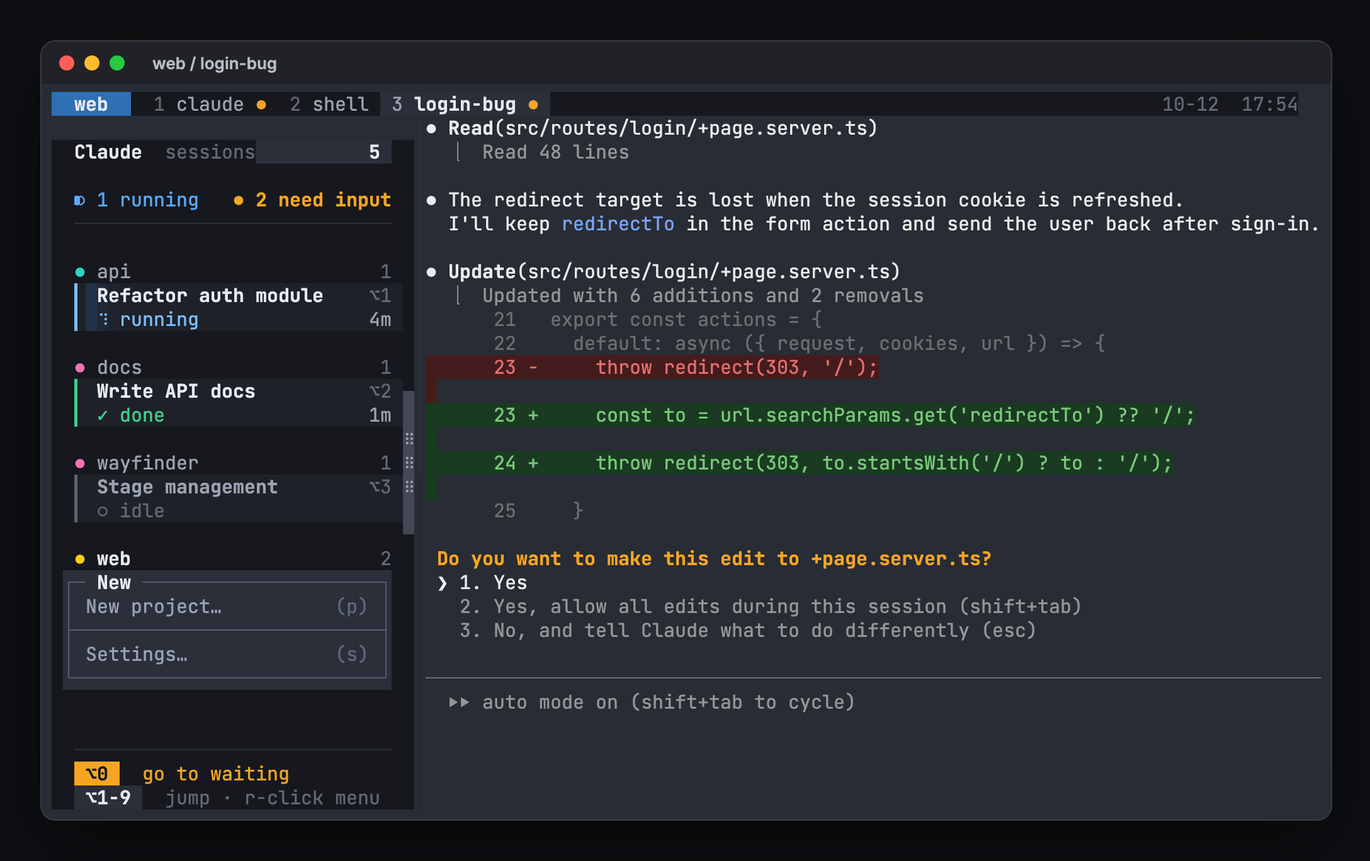
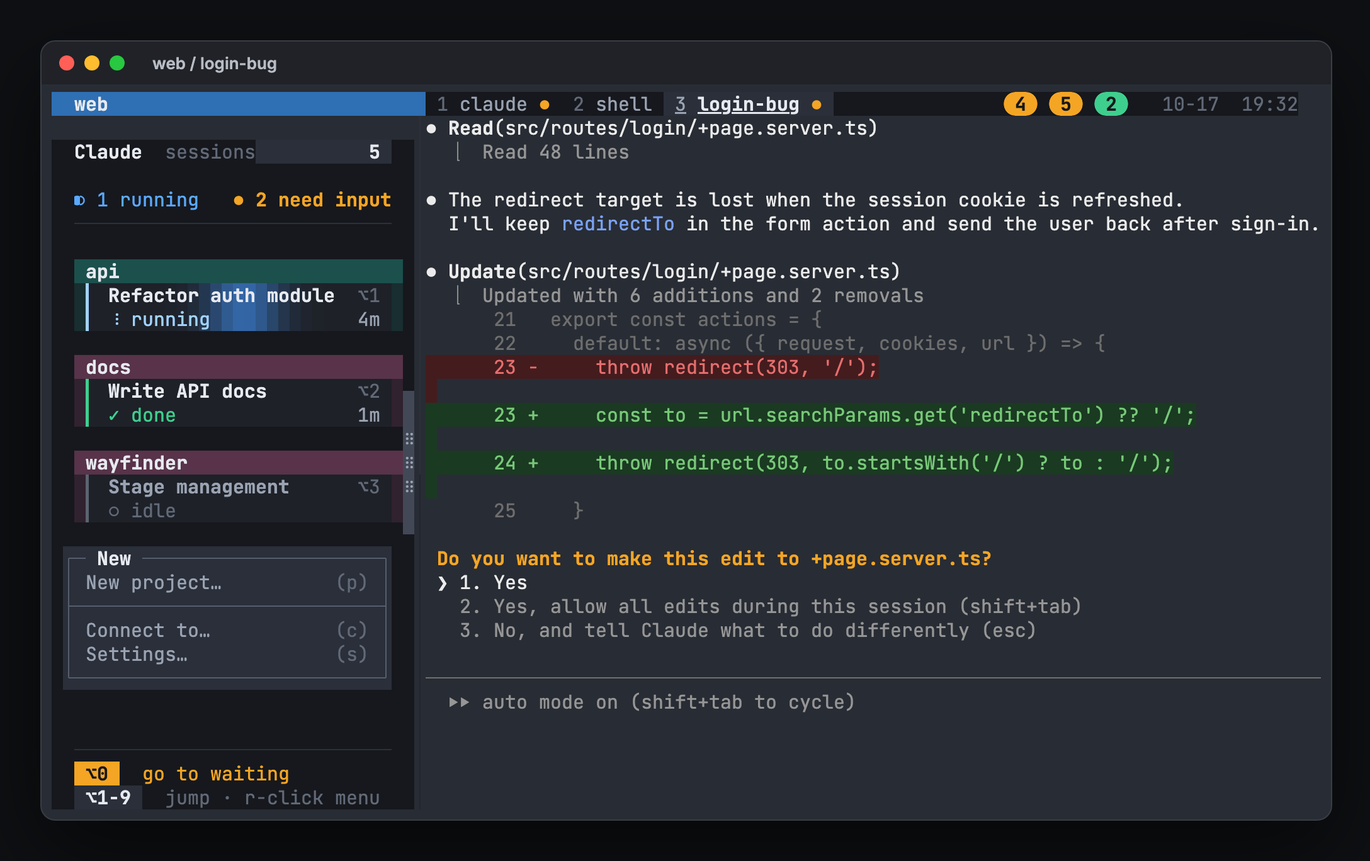
Docs: project boxes, scrolling and the selected card in README, guide and screenshots
The guide's sidebar mockups are drawn as project boxes, the selected card
has white side lines instead of ▶, and the keys list the mouse wheel.
Screenshots are rebuilt; ansi2html draws the round badge ends, and the
capture waits for the blinking pickup board to be on.

Claude-Session: https://claude.ai/code/session_01DeGU8b5o6dBWL7LV6J71n7

diff --git a/docs/guide.html b/docs/guide.html
@@ -248,11 +248,12 @@ ul { margin: 0; padding-left: 1.2em; display: grid; gap: 4px; max-width: 65ch; }
 .side2 .hd .n { margin-left: auto; background: #2a2f3a; color: #e6e9ef; padding: 0 7px; border-radius: 3px; }
 .side2 .sum { padding: 8px 12px 8px; display: flex; gap: 12px; border-bottom: 1px solid #2c3039; margin: 0 12px; padding-inline: 0; }
 .side2 .sum .r { color: #5aa9ff; } .side2 .sum .w { color: #f5a524; font-weight: 700; }
-.side2 .pj { display: flex; align-items: center; gap: 6px; padding: 12px 12px 4px; color: #9aa3b2; }
-.side2 .pj i { width: 7px; height: 7px; border-radius: 50%; display: inline-block; }
-.side2 .pj.cur { color: #e6e9ef; font-weight: 700; }
-.side2 .pj span { margin-left: auto; color: #626a78; font-weight: 400; }
-.side2 .cd { margin: 0 8px 6px 12px; display: grid; grid-template-columns: 1fr auto; column-gap: 6px; padding: 3px 8px; background: #1e2128; border-left: 2px solid #5c6370; color: #e6e9ef; }
+.side2 .bx { background: color-mix(in srgb, var(--h) 12%, #16181d); margin: 10px 12px 0; padding-bottom: 5px; }
+.side2 .bx.cur { background: color-mix(in srgb, var(--h) 20%, #16181d); }
+.side2 .pj { display: flex; align-items: center; padding: 1px 8px; margin-bottom: 5px; color: #e6e9ef; font-weight: 700; background: color-mix(in srgb, var(--h) 30%, #16181d); }
+.side2 .bx.cur .pj { background: color-mix(in srgb, var(--h) 45%, #16181d); }
+.side2 .pj span { margin-left: auto; color: color-mix(in srgb, var(--h) 40%, #e6e9ef); font-weight: 400; }
+.side2 .cd { margin: 0 8px 5px; display: grid; grid-template-columns: 1fr auto; column-gap: 6px; padding: 3px 8px; background: #1e2128; border-left: 2px solid #5c6370; color: #e6e9ef; }
 .side2 .cd .t { font-weight: 700; overflow: hidden; text-overflow: ellipsis; white-space: nowrap; }
 .side2 .cd b { color: #626a78; font-weight: 400; }
 .side2 .cd .a { color: #9aa3b2; }
@@ -260,7 +261,7 @@ ul { margin: 0; padding-left: 1.2em; display: grid; gap: 4px; max-width: 65ch; }
 .side2 .cd.done { border-left-color: #3ecf8e; } .side2 .cd.done .s { color: #3ecf8e; }
 .side2 .cd.idle .s { color: #626a78; } .side2 .cd.idle .t { color: #9aa3b2; }
 .side2 .cd.wait { background: #342812; border-left-color: #f5a524; } .side2 .cd.wait .s { color: #f5a524; font-weight: 700; } .side2 .cd.wait .a { color: #f5a524; }
-.side2 .cd.sel { background: #2a2f3a; border-left-width: 4px; } .side2 .cd.sel b { color: #e6e9ef; }
+.side2 .cd.sel { background: #3a4152; border-left-width: 4px; box-shadow: -4px 0 0 #e1e6f0, 4px 0 0 #e1e6f0; } .side2 .cd.sel b { color: #e6e9ef; }
 .side2 .cd.run { position: relative; overflow: hidden; animation: pulse 1.6s ease-in-out infinite; }
 .side2 .cd.run::after { content: ""; position: absolute; top: 0; bottom: 0; left: -40%; width: 40%; background: radial-gradient(ellipse at center, rgba(52,104,168,.75), transparent 70%); animation: sweep 1.8s linear infinite; pointer-events: none; }
 .side2 .cd.wait { animation: blink 2.2s ease-in-out infinite; }
@@ -349,28 +350,36 @@ ul { margin: 0; padding-left: 1.2em; display: grid; gap: 4px; max-width: 65ch; }
 
     <div class="st"><div>
       <h3>모든 작업 상태 보기와 바로 이동</h3>
-      <p>화면 왼쪽의 <b>사이드바</b>가 작업 상태판입니다. 어느 프로젝트를 보고 있든 모든 프로젝트의 Claude가 프로젝트별로 묶여 작업 이름과 함께 카드로 항상 표시됩니다. 카드 왼쪽 선의 색이 상태이고, 입력이 필요한 작업은 카드 전체가 호박색입니다. 지금 보고 있는 작업은 <b>밝은 카드와 ▶</b>로 표시됩니다.</p>
+      <p>화면 왼쪽의 <b>사이드바</b>가 작업 상태판입니다. 어느 프로젝트를 보고 있든 모든 프로젝트의 Claude가 프로젝트별로 묶여 작업 이름과 함께 카드로 항상 표시됩니다. 카드 왼쪽 선의 색이 상태이고, 입력이 필요한 작업은 카드 전체가 호박색입니다. 지금 보고 있는 작업은 <b>양옆에 흰 선이 있는 밝은 카드</b>로 표시됩니다.</p>
       <div class="screen" role="img" aria-label="tmux 화면 예시: 맨 위 창 목록, 왼쪽 사이드바, 오른쪽 작업 칸">
         <div class="tbar"><span class="sess">web</span><span class="win">1:claude <span class="st-wait">●</span></span><span class="win">2:shell</span><span class="win cur">3:login-bug <span class="st-wait">●</span></span><span class="grow"></span><span class="clock">10-06 11:20</span></div>
         <div class="side2">
           <div class="hd">Claude <em>세션</em><span class="n">5</span></div>
           <div class="sum"><span class="r">◐ 1 작업 중</span><span class="w">● 2 입력 필요</span></div>
-          <div class="pj"><i style="background:#a78bfa"></i>api<span>1</span></div>
-          <div class="cd run"><span class="t">인증 모듈 리팩터링</span><b>⌥1</b><span class="s">⠹ 작업 중</span><span class="a">4m</span></div>
-          <div class="pj"><i style="background:#2dd4bf"></i>docs<span>1</span></div>
-          <div class="cd done"><span class="t">API 문서 정리</span><b>⌥2</b><span class="s">✓ 완료</span><span class="a">1m</span></div>
-          <div class="pj cur"><i style="background:#f472b6"></i>web<span>2</span></div>
-          <div class="cd wait"><span class="t">결제 페이지 개선</span><b>⌥3</b><span class="s">● 입력 필요</span><span class="a">2m</span></div>
-          <div class="cd wait sel"><span class="t">로그인 리다이렉트 버그 수정</span><b>⌥4</b><span class="s">● 입력 필요</span><span class="a">40s</span></div>
-          <div class="pj"><i style="background:#fb923c"></i>wayfinder<span>1</span></div>
-          <div class="cd idle"><span class="t">단계 관리 기능</span><b>⌥5</b><span class="s">○ 대기</span><span class="a"></span></div>
+          <div class="bx" style="--h:#a78bfa">
+            <div class="pj">api</div>
+            <div class="cd run"><span class="t">인증 모듈 리팩터링</span><b>⌥1</b><span class="s">⠹ 작업 중</span><span class="a">4m</span></div>
+          </div>
+          <div class="bx" style="--h:#2dd4bf">
+            <div class="pj">docs</div>
+            <div class="cd done"><span class="t">API 문서 정리</span><b>⌥2</b><span class="s">✓ 완료</span><span class="a">1m</span></div>
+          </div>
+          <div class="bx cur" style="--h:#f472b6">
+            <div class="pj">web<span>2</span></div>
+            <div class="cd wait"><span class="t">결제 페이지 개선</span><b>⌥3</b><span class="s">● 입력 필요</span><span class="a">2m</span></div>
+            <div class="cd wait sel"><span class="t">로그인 리다이렉트 버그 수정</span><b>⌥4</b><span class="s">● 입력 필요</span><span class="a">40s</span></div>
+          </div>
+          <div class="bx" style="--h:#fb923c">
+            <div class="pj">wayfinder</div>
+            <div class="cd idle"><span class="t">단계 관리 기능</span><b>⌥5</b><span class="s">○ 대기</span><span class="a"></span></div>
+          </div>
           <div class="ft"><span class="w"><kbd>⌥0</kbd> 기다리는 작업으로</span><span><kbd>⌥1-9</kbd> 이동 · 우클릭 메뉴</span></div>
         </div>
         <div class="mainpane"><span class="p">~/project/web ❯</span> claude -n login-bug<br><br><span class="hl">Allow edit to src/routes/+page.svelte?</span><br>❯ 1. Yes<br>&nbsp;&nbsp;2. No</div>
       </div>
       <p><kbd>Option</kbd>+번호를 누르면 그 Claude로 바로 갑니다. 프로젝트가 달라도 한 번에 이동합니다. 사이드바의 타일을 클릭해도 됩니다.</p>
       <p><kbd>Option</kbd>+<kbd>0</kbd>은 가장 오래 기다린 Claude로 갑니다. 주황색 항목이 없으면 끝났는데 아직 안 본 초록색 항목으로 갑니다. 이 키만 반복해서 누르면 기다리는 작업을 차례로 처리할 수 있습니다.</p>
-      <p class="result">작업 중인 카드는 밝은 빛 띠가 계속 훑고 지나가고 스피너가 돕니다. 입력이 필요한 카드는 호박색으로 깜빡입니다. 맨 위 창 목록에서도 작업 중인 창 옆에 스피너가 돕니다. 번호는 프로젝트 이름순으로 매겨지고 작업이 바뀌어도 그대로라서 손에 익습니다. 타일 아랫줄에 상태와 경과 시간이 보여서 무엇을 먼저 볼지 정할 수 있습니다. 각 프로젝트는 프로젝트 색 머리 띠가 달린 상자로 묶입니다. 사이드바를 넓히면 상자가 2열, 3열로 늘어나고, 그래도 세로로 다 들어가지 않으면 카드 사이 빈 줄을 줄이고, 그다음엔 마우스 휠로 스크롤합니다. 사이드바가 거슬리면 <kbd>Ctrl</kbd>+<kbd>A</kbd> 다음 <kbd>b</kbd>로 숨기고 다시 보일 수 있습니다.</p>
+      <p class="result">작업 중인 카드는 밝은 빛 띠가 계속 훑고 지나가고 스피너가 돕니다. 입력이 필요한 카드는 호박색으로 깜빡입니다. 맨 위 창 목록에서도 작업 중인 창 옆에 스피너가 돕니다. 번호는 프로젝트 이름순으로 매겨지고 작업이 바뀌어도 그대로라서 손에 익습니다. 타일 아랫줄에 상태와 경과 시간이 보여서 무엇을 먼저 볼지 정할 수 있습니다. 각 프로젝트는 프로젝트 색 머리 띠가 달린 상자로 묶입니다. 사이드바를 넓히면 상자가 2열, 3열로 늘어나고, 그래도 세로로 다 들어가지 않으면 카드 사이 빈 줄을 줄이고, 그다음엔 마우스 휠로 스크롤합니다. 위나 아래에 더 있으면 구분선 끝에 ▲ ▼가 보이고, 스크롤 위치는 모든 창이 함께 써서 다른 작업으로 옮겨도 그대로입니다. 사이드바가 거슬리면 <kbd>Ctrl</kbd>+<kbd>A</kbd> 다음 <kbd>b</kbd>로 숨기고 다시 보일 수 있습니다.</p>
     </div></div>
 
     <div class="st"><div>
@@ -427,15 +436,23 @@ claude -c
         <div class="side2">
           <div class="hd">Claude <em>세션</em><span class="n">5</span></div>
           <div class="sum"><span class="r">◐ 1 작업 중</span><span class="w">● 2 입력 필요</span></div>
-          <div class="pj"><i style="background:#a78bfa"></i>api<span>1</span></div>
-          <div class="cd run"><span class="t">인증 모듈 리팩터링</span><b>⌥1</b><span class="s">⠹ 작업 중</span><span class="a">4m</span></div>
-          <div class="pj"><i style="background:#2dd4bf"></i>docs<span>1</span></div>
-          <div class="cd done"><span class="t">API 문서 정리</span><b>⌥2</b><span class="s">✓ 완료</span><span class="a">1m</span></div>
-          <div class="pj cur"><i style="background:#f472b6"></i>web<span>2</span></div>
-          <div class="cd wait"><span class="t">결제 페이지 개선</span><b>⌥3</b><span class="s">● 입력 필요</span><span class="a">2m</span></div>
-          <div class="cd wait sel"><span class="t">로그인 리다이렉트 버그 수정</span><b>⌥4</b><span class="s">● 입력 필요</span><span class="a">40s</span></div>
-          <div class="pj"><i style="background:#fb923c"></i>wayfinder<span>1</span></div>
-          <div class="cd idle"><span class="t">단계 관리 기능</span><b>⌥5</b><span class="s">○ 대기</span><span class="a"></span></div>
+          <div class="bx" style="--h:#a78bfa">
+            <div class="pj">api</div>
+            <div class="cd run"><span class="t">인증 모듈 리팩터링</span><b>⌥1</b><span class="s">⠹ 작업 중</span><span class="a">4m</span></div>
+          </div>
+          <div class="bx" style="--h:#2dd4bf">
+            <div class="pj">docs</div>
+            <div class="cd done"><span class="t">API 문서 정리</span><b>⌥2</b><span class="s">✓ 완료</span><span class="a">1m</span></div>
+          </div>
+          <div class="bx cur" style="--h:#f472b6">
+            <div class="pj">web<span>2</span></div>
+            <div class="cd wait"><span class="t">결제 페이지 개선</span><b>⌥3</b><span class="s">● 입력 필요</span><span class="a">2m</span></div>
+            <div class="cd wait sel"><span class="t">로그인 리다이렉트 버그 수정</span><b>⌥4</b><span class="s">● 입력 필요</span><span class="a">40s</span></div>
+          </div>
+          <div class="bx" style="--h:#fb923c">
+            <div class="pj">wayfinder</div>
+            <div class="cd idle"><span class="t">단계 관리 기능</span><b>⌥5</b><span class="s">○ 대기</span><span class="a"></span></div>
+          </div>
           <div class="ft"><span class="w"><kbd>⌥0</kbd> 기다리는 작업으로</span><span><kbd>⌥1-9</kbd> 이동 · 우클릭 메뉴</span></div>
         </div>
         <div class="mainpane"><span class="p">~/project/web ❯</span> claude -n login-bug<br><br><span class="hl">Allow edit to src/routes/+page.svelte?</span><br>❯ 1. Yes<br>&nbsp;&nbsp;2. No</div>
@@ -452,10 +469,10 @@ claude -c
   </div>
   <div class="anno">
     <div><b>Claude 세션 5</b><span>사이드바 맨 위. tmux 안에서 실행 중인 Claude 세션 수</span></div>
-    <div><b>● api  1</b><span>색 점이 붙은 줄이 프로젝트(세션) 이름과 그 안의 Claude 수. 지금 보는 프로젝트는 더 밝게 표시</span></div>
+    <div><b>프로젝트 상자</b><span>프로젝트(세션)마다 상자 하나. 프로젝트 색 머리 띠에 이름과 Claude 수(2개 이상일 때)가 있고, 그 아래에 Claude 카드가 들어갑니다. 지금 보는 프로젝트는 더 진하게 표시</span></div>
     <div><b>작업 이름</b><span>Claude가 정한 대화 제목이나 -n 이름. 대화가 진행되면 Claude가 제목을 바꿉니다</span></div>
-    <div><b>타일 앞 번호</b><span>Option+번호로 이동할 때 쓰는 번호</span></div>
-    <div><b>▶ 밝은 카드</b><span>지금 보고 있는 작업</span></div>
+    <div><b>⌥ 번호</b><span>카드 오른쪽 위. Option+번호로 이동할 때 쓰는 번호</span></div>
+    <div><b>양옆 흰 선</b><span>지금 보고 있는 작업</span></div>
     <div><b>맨 위 줄 web 1:claude …</b><span>지금 프로젝트 이름과 창 목록. 밝게 표시된 것이 현재 창</span></div>
   </div>
   <div class="scroll"><table>
@@ -465,7 +482,7 @@ claude -c
       <tr><td><span class="pill" style="background:#303030;color:#87d787;border-left:3px solid #5fd787">✓ 완료</span></td><td>응답을 끝냈고 아직 안 봄. 초록 선</td><td>결과 확인. 열어 보면 대기로 바뀜</td></tr>
       <tr><td><span class="pill" style="background:#303030;color:#87d7ff;border-left:3px solid #5fafff">◐ 작업 중</span></td><td>작업 중. 빛 띠가 훑고 지나가고 파란 선이 맥박처럼 밝아짐. 오른쪽 숫자는 작업 시간</td><td>기다리기</td></tr>
       <tr><td><span class="pill" style="background:#303030;color:#8a8a8a;border-left:3px solid #585858">○ 대기</span></td><td>다음 지시를 기다리는 상태. 결과는 이미 봄</td><td>새 지시를 줄 때 이동</td></tr>
-      <tr><td><span class="pill" style="background:#4e4e4e;color:#ff87ff">▶ 밝은 카드</span></td><td>지금 보고 있는 작업</td><td>없음</td></tr>
+      <tr><td><span class="pill" style="background:#3a4152;color:#e6e9ef;box-shadow:-3px 0 0 #e1e6f0,3px 0 0 #e1e6f0;margin-inline:3px">양옆 흰 선</span></td><td>지금 보고 있는 작업</td><td>없음</td></tr>
     </tbody>
   </table></div>
 
@@ -501,7 +518,8 @@ claude -c
       <div class="key"><span class="combo">메뉴 → 설정</span><span class="d">언어 (한국어 / English), 애니메이션 켜기 / 끄기, 알림 켜기 / 끄기, 사이드바 폭. 바꾸면 바로 적용되고 <code>~/.local/share/hivemux</code>에 저장되어 재시작 뒤에도 유지됨. 언어를 바꾸면 사이드바를 다시 띄움</span></div>
       <div class="key"><span class="combo">카드 / 프로젝트 이름 줄 끌기</span><span class="d">작업 순서 / 프로젝트 순서 바꾸기. 놓을 자리가 파랗게 표시되고, <kbd>⌥</kbd>+숫자 번호와 맨 위 창 목록도 같은 순서를 따름. 작업은 같은 프로젝트 안에서만 옮겨짐</span></div>
       <div class="key"><span class="combo"><kbd>Ctrl</kbd>+<kbd>A</kbd> → <kbd>Shift</kbd>+<kbd>↑</kbd> / <kbd>↓</kbd></span><span class="d">지금 작업을 한 칸 위 / 아래로. 프로젝트 끝이면 프로젝트 전체가 움직임</span></div>
-      <div class="key"><span class="combo">핸들 막대 끌기</span><span class="d">핸들 막대나 경계선을 끌어 사이드바 폭 바꾸기. 모든 창에 맞추고 저장</span></div>
+      <div class="key"><span class="combo">핸들 막대 끌기</span><span class="d">핸들 막대나 경계선을 끌어 사이드바 폭 바꾸기. 모든 창에 맞추고 저장. 넓히면 프로젝트 상자가 2열, 3열로 늘어남</span></div>
+      <div class="key"><span class="combo">사이드바 위에서 마우스 휠</span><span class="d">목록이 다 들어가지 않을 때 스크롤. 위치는 모든 창이 함께 씀</span></div>
       <div class="key"><span class="combo"><kbd>Ctrl</kbd>+<kbd>A</kbd> → <kbd>b</kbd></span><span class="d">사이드바 모두 숨기기 / 다시 보이기</span></div>
       <div class="key"><span class="combo"><kbd>Ctrl</kbd>+<kbd>A</kbd> → <kbd>Space</kbd></span><span class="d">Option+0과 같음</span></div>
     </div>

diff --git a/docs/guide.en.html b/docs/guide.en.html
@@ -248,11 +248,12 @@ ul { margin: 0; padding-left: 1.2em; display: grid; gap: 4px; max-width: 65ch; }
 .side2 .hd .n { margin-left: auto; background: #2a2f3a; color: #e6e9ef; padding: 0 7px; border-radius: 3px; }
 .side2 .sum { padding: 8px 12px 8px; display: flex; gap: 12px; border-bottom: 1px solid #2c3039; margin: 0 12px; padding-inline: 0; }
 .side2 .sum .r { color: #5aa9ff; } .side2 .sum .w { color: #f5a524; font-weight: 700; }
-.side2 .pj { display: flex; align-items: center; gap: 6px; padding: 12px 12px 4px; color: #9aa3b2; }
-.side2 .pj i { width: 7px; height: 7px; border-radius: 50%; display: inline-block; }
-.side2 .pj.cur { color: #e6e9ef; font-weight: 700; }
-.side2 .pj span { margin-left: auto; color: #626a78; font-weight: 400; }
-.side2 .cd { margin: 0 8px 6px 12px; display: grid; grid-template-columns: 1fr auto; column-gap: 6px; padding: 3px 8px; background: #1e2128; border-left: 2px solid #5c6370; color: #e6e9ef; }
+.side2 .bx { background: color-mix(in srgb, var(--h) 12%, #16181d); margin: 10px 12px 0; padding-bottom: 5px; }
+.side2 .bx.cur { background: color-mix(in srgb, var(--h) 20%, #16181d); }
+.side2 .pj { display: flex; align-items: center; padding: 1px 8px; margin-bottom: 5px; color: #e6e9ef; font-weight: 700; background: color-mix(in srgb, var(--h) 30%, #16181d); }
+.side2 .bx.cur .pj { background: color-mix(in srgb, var(--h) 45%, #16181d); }
+.side2 .pj span { margin-left: auto; color: color-mix(in srgb, var(--h) 40%, #e6e9ef); font-weight: 400; }
+.side2 .cd { margin: 0 8px 5px; display: grid; grid-template-columns: 1fr auto; column-gap: 6px; padding: 3px 8px; background: #1e2128; border-left: 2px solid #5c6370; color: #e6e9ef; }
 .side2 .cd .t { font-weight: 700; overflow: hidden; text-overflow: ellipsis; white-space: nowrap; }
 .side2 .cd b { color: #626a78; font-weight: 400; }
 .side2 .cd .a { color: #9aa3b2; }
@@ -260,7 +261,7 @@ ul { margin: 0; padding-left: 1.2em; display: grid; gap: 4px; max-width: 65ch; }
 .side2 .cd.done { border-left-color: #3ecf8e; } .side2 .cd.done .s { color: #3ecf8e; }
 .side2 .cd.idle .s { color: #626a78; } .side2 .cd.idle .t { color: #9aa3b2; }
 .side2 .cd.wait { background: #342812; border-left-color: #f5a524; } .side2 .cd.wait .s { color: #f5a524; font-weight: 700; } .side2 .cd.wait .a { color: #f5a524; }
-.side2 .cd.sel { background: #2a2f3a; border-left-width: 4px; } .side2 .cd.sel b { color: #e6e9ef; }
+.side2 .cd.sel { background: #3a4152; border-left-width: 4px; box-shadow: -4px 0 0 #e1e6f0, 4px 0 0 #e1e6f0; } .side2 .cd.sel b { color: #e6e9ef; }
 .side2 .cd.run { position: relative; overflow: hidden; animation: pulse 1.6s ease-in-out infinite; }
 .side2 .cd.run::after { content: ""; position: absolute; top: 0; bottom: 0; left: -40%; width: 40%; background: radial-gradient(ellipse at center, rgba(52,104,168,.75), transparent 70%); animation: sweep 1.8s linear infinite; pointer-events: none; }
 .side2 .cd.wait { animation: blink 2.2s ease-in-out infinite; }
@@ -349,28 +350,36 @@ ul { margin: 0; padding-left: 1.2em; display: grid; gap: 4px; max-width: 65ch; }
 
     <div class="st"><div>
       <h3>See every task and jump to it</h3>
-      <p>The <b>sidebar</b> on the left is the board. Whichever project you are in, it always shows every Claude in every project as cards, grouped by project, with the task name. The color of the card's left bar is its state; a card that needs your input turns amber. The task you are looking at is the <b>lighter card with ▶</b>.</p>
+      <p>The <b>sidebar</b> on the left is the board. Whichever project you are in, it always shows every Claude in every project as cards, grouped by project, with the task name. The color of the card's left bar is its state; a card that needs your input turns amber. The task you are looking at is the <b>lighter card with a white line on each side</b>.</p>
       <div class="screen" role="img" aria-label="Example tmux screen: window list on top, sidebar on the left, work pane on the right">
         <div class="tbar"><span class="sess">web</span><span class="win">1:claude <span class="st-wait">●</span></span><span class="win">2:shell</span><span class="win cur">3:login-bug <span class="st-wait">●</span></span><span class="grow"></span><span class="clock">10-06 11:20</span></div>
         <div class="side2">
           <div class="hd">Claude <em>sessions</em><span class="n">5</span></div>
           <div class="sum"><span class="r">◐ 1 running</span><span class="w">● 2 need input</span></div>
-          <div class="pj"><i style="background:#a78bfa"></i>api<span>1</span></div>
-          <div class="cd run"><span class="t">Refactor auth module</span><b>⌥1</b><span class="s">⠹ running</span><span class="a">4m</span></div>
-          <div class="pj"><i style="background:#2dd4bf"></i>docs<span>1</span></div>
-          <div class="cd done"><span class="t">Write API docs</span><b>⌥2</b><span class="s">✓ done</span><span class="a">1m</span></div>
-          <div class="pj cur"><i style="background:#f472b6"></i>web<span>2</span></div>
-          <div class="cd wait"><span class="t">Improve checkout page</span><b>⌥3</b><span class="s">● needs input</span><span class="a">2m</span></div>
-          <div class="cd wait sel"><span class="t">Fix login redirect bug</span><b>⌥4</b><span class="s">● needs input</span><span class="a">40s</span></div>
-          <div class="pj"><i style="background:#fb923c"></i>wayfinder<span>1</span></div>
-          <div class="cd idle"><span class="t">Stage management</span><b>⌥5</b><span class="s">○ idle</span><span class="a"></span></div>
+          <div class="bx" style="--h:#a78bfa">
+            <div class="pj">api</div>
+            <div class="cd run"><span class="t">Refactor auth module</span><b>⌥1</b><span class="s">⠹ running</span><span class="a">4m</span></div>
+          </div>
+          <div class="bx" style="--h:#2dd4bf">
+            <div class="pj">docs</div>
+            <div class="cd done"><span class="t">Write API docs</span><b>⌥2</b><span class="s">✓ done</span><span class="a">1m</span></div>
+          </div>
+          <div class="bx cur" style="--h:#f472b6">
+            <div class="pj">web<span>2</span></div>
+            <div class="cd wait"><span class="t">Improve checkout page</span><b>⌥3</b><span class="s">● needs input</span><span class="a">2m</span></div>
+            <div class="cd wait sel"><span class="t">Fix login redirect bug</span><b>⌥4</b><span class="s">● needs input</span><span class="a">40s</span></div>
+          </div>
+          <div class="bx" style="--h:#fb923c">
+            <div class="pj">wayfinder</div>
+            <div class="cd idle"><span class="t">Stage management</span><b>⌥5</b><span class="s">○ idle</span><span class="a"></span></div>
+          </div>
           <div class="ft"><span class="w"><kbd>⌥0</kbd> go to waiting</span><span><kbd>⌥1-9</kbd> jump · r-click rename</span></div>
         </div>
         <div class="mainpane"><span class="p">~/project/web ❯</span> claude -n login-bug<br><br><span class="hl">Allow edit to src/routes/+page.svelte?</span><br>❯ 1. Yes<br>&nbsp;&nbsp;2. No</div>
       </div>
       <p><kbd>Option</kbd>+number jumps straight to that Claude, even in another project. Clicking a card does the same.</p>
       <p><kbd>Option</kbd>+<kbd>0</kbd> jumps to the Claude that has waited longest. With nothing amber, it goes to a finished green card you have not seen yet. Press it repeatedly to work through everything that is waiting.</p>
-      <p class="result">Running cards have a light band sweeping across and a spinner. Cards that need input pulse amber. The top window list shows a spinner next to running windows too. Numbers follow project names and stay put when states change, so they are easy to remember. The second line of each card shows the state and elapsed time, so you can decide what to look at first. Each project is a box with a header band in the project's color. Widen the sidebar and the boxes go into 2 or 3 columns; when they still do not fit, the blank rows between cards go first, then the list scrolls with the mouse wheel. To hide the sidebar, press <kbd>Ctrl</kbd>+<kbd>A</kbd> then <kbd>b</kbd>; press again to bring it back.</p>
+      <p class="result">Running cards have a light band sweeping across and a spinner. Cards that need input pulse amber. The top window list shows a spinner next to running windows too. Numbers follow project names and stay put when states change, so they are easy to remember. The second line of each card shows the state and elapsed time, so you can decide what to look at first. Each project is a box with a header band in the project's color. Widen the sidebar and the boxes go into 2 or 3 columns; when they still do not fit, the blank rows between cards go first, then the list scrolls with the mouse wheel. ▲ ▼ at the end of a rule show more above or below, and every window shares the scroll position, so going to another task keeps the list where it was. To hide the sidebar, press <kbd>Ctrl</kbd>+<kbd>A</kbd> then <kbd>b</kbd>; press again to bring it back.</p>
     </div></div>
 
     <div class="st"><div>
@@ -426,15 +435,23 @@ claude -c
         <div class="side2">
           <div class="hd">Claude <em>sessions</em><span class="n">5</span></div>
           <div class="sum"><span class="r">◐ 1 running</span><span class="w">● 2 need input</span></div>
-          <div class="pj"><i style="background:#a78bfa"></i>api<span>1</span></div>
-          <div class="cd run"><span class="t">Refactor auth module</span><b>⌥1</b><span class="s">⠹ running</span><span class="a">4m</span></div>
-          <div class="pj"><i style="background:#2dd4bf"></i>docs<span>1</span></div>
-          <div class="cd done"><span class="t">Write API docs</span><b>⌥2</b><span class="s">✓ done</span><span class="a">1m</span></div>
-          <div class="pj cur"><i style="background:#f472b6"></i>web<span>2</span></div>
-          <div class="cd wait"><span class="t">Improve checkout page</span><b>⌥3</b><span class="s">● needs input</span><span class="a">2m</span></div>
-          <div class="cd wait sel"><span class="t">Fix login redirect bug</span><b>⌥4</b><span class="s">● needs input</span><span class="a">40s</span></div>
-          <div class="pj"><i style="background:#fb923c"></i>wayfinder<span>1</span></div>
-          <div class="cd idle"><span class="t">Stage management</span><b>⌥5</b><span class="s">○ idle</span><span class="a"></span></div>
+          <div class="bx" style="--h:#a78bfa">
+            <div class="pj">api</div>
+            <div class="cd run"><span class="t">Refactor auth module</span><b>⌥1</b><span class="s">⠹ running</span><span class="a">4m</span></div>
+          </div>
+          <div class="bx" style="--h:#2dd4bf">
+            <div class="pj">docs</div>
+            <div class="cd done"><span class="t">Write API docs</span><b>⌥2</b><span class="s">✓ done</span><span class="a">1m</span></div>
+          </div>
+          <div class="bx cur" style="--h:#f472b6">
+            <div class="pj">web<span>2</span></div>
+            <div class="cd wait"><span class="t">Improve checkout page</span><b>⌥3</b><span class="s">● needs input</span><span class="a">2m</span></div>
+            <div class="cd wait sel"><span class="t">Fix login redirect bug</span><b>⌥4</b><span class="s">● needs input</span><span class="a">40s</span></div>
+          </div>
+          <div class="bx" style="--h:#fb923c">
+            <div class="pj">wayfinder</div>
+            <div class="cd idle"><span class="t">Stage management</span><b>⌥5</b><span class="s">○ idle</span><span class="a"></span></div>
+          </div>
           <div class="ft"><span class="w"><kbd>⌥0</kbd> go to waiting</span><span><kbd>⌥1-9</kbd> jump · r-click rename</span></div>
         </div>
         <div class="mainpane"><span class="p">~/project/web ❯</span> claude -n login-bug<br><br><span class="hl">Allow edit to src/routes/+page.svelte?</span><br>❯ 1. Yes<br>&nbsp;&nbsp;2. No</div>
@@ -442,10 +459,10 @@ claude -c
   </div>
   <div class="anno">
     <div><b>Claude sessions 5</b><span>Top of the sidebar: number of Claude sessions running inside tmux</span></div>
-    <div><b>● api  1</b><span>Project (tmux session) name with its color dot and the number of Claudes in it. The project you are in is brighter</span></div>
+    <div><b>Project box</b><span>One box per project (tmux session): a header band in the project's color with its name and the number of Claudes (when more than one), its Claude cards below. The project you are in is stronger</span></div>
     <div><b>Task name</b><span>Claude's conversation title or the -n name. Claude may retitle it as the conversation goes</span></div>
-    <div><b>⌥ number</b><span>The number for Option+number</span></div>
-    <div><b>▶ lighter card</b><span>The task you are looking at</span></div>
+    <div><b>⌥ number</b><span>Top right of the card: the number for Option+number</span></div>
+    <div><b>White side lines</b><span>The task you are looking at</span></div>
     <div><b>Top line: web 1:claude …</b><span>Current project and its windows. The highlighted one is the current window</span></div>
   </div>
   <div class="scroll"><table>
@@ -455,7 +472,7 @@ claude -c
       <tr><td><span class="pill" style="background:#303030;color:#87d787;border-left:3px solid #5fd787">✓ done</span></td><td>Finished, not seen yet. Green bar</td><td>Check the result; it turns idle once you look</td></tr>
       <tr><td><span class="pill" style="background:#303030;color:#87d7ff;border-left:3px solid #5fafff">◐ running</span></td><td>Working. A light band sweeps across and the blue bar pulses; the number is how long it has run</td><td>Let it work</td></tr>
       <tr><td><span class="pill" style="background:#303030;color:#8a8a8a;border-left:3px solid #585858">○ idle</span></td><td>Waiting for your next request; you have seen the result</td><td>Go there to give a new task</td></tr>
-      <tr><td><span class="pill" style="background:#4e4e4e;color:#ff87ff">▶ lighter card</span></td><td>The task you are looking at</td><td>Nothing</td></tr>
+      <tr><td><span class="pill" style="background:#3a4152;color:#e6e9ef;box-shadow:-3px 0 0 #e1e6f0,3px 0 0 #e1e6f0;margin-inline:3px">White side lines</span></td><td>The task you are looking at</td><td>Nothing</td></tr>
     </tbody>
   </table></div>
 
@@ -491,7 +508,8 @@ claude -c
       <div class="key"><span class="combo">Menu → Settings</span><span class="d">Language (한국어 / English), animation on / off, notifications on / off, sidebar width. Applied at once and saved in <code>~/.local/share/hivemux</code>, so they survive restarts. Changing the language restarts the sidebars</span></div>
       <div class="key"><span class="combo">Drag a card / project header</span><span class="d">Reorder tasks / projects. The drop target turns blue; <kbd>⌥</kbd>+number and the top window list follow the same order. A task moves only within its project</span></div>
       <div class="key"><span class="combo"><kbd>Ctrl</kbd>+<kbd>A</kbd> → <kbd>Shift</kbd>+<kbd>↑</kbd> / <kbd>↓</kbd></span><span class="d">Move the current task up / down one step; at a project's edge the whole project moves</span></div>
-      <div class="key"><span class="combo">Drag the grip</span><span class="d">Drag the grip bar or the border to resize the sidebar; applied to all windows and saved</span></div>
+      <div class="key"><span class="combo">Drag the grip</span><span class="d">Drag the grip bar or the border to resize the sidebar; applied to all windows and saved. Wider, the project boxes go into 2 or 3 columns</span></div>
+      <div class="key"><span class="combo">Mouse wheel on the sidebar</span><span class="d">Scroll when the list does not fit; every window shares the position</span></div>
       <div class="key"><span class="combo"><kbd>Ctrl</kbd>+<kbd>A</kbd> → <kbd>b</kbd></span><span class="d">Hide / show all sidebars</span></div>
       <div class="key"><span class="combo"><kbd>Ctrl</kbd>+<kbd>A</kbd> → <kbd>Space</kbd></span><span class="d">Same as Option+0</span></div>
     </div>

diff --git a/docs/preview/ansi2html.py b/docs/preview/ansi2html.py
@@ -48,6 +48,10 @@ def block(ch, fg, bg):
         "○": f"radial-gradient(circle at 50% 54%,{b} 0 2.4px,{f} 2.9px 3.6px,{b} 4.1px)",
         "◐": f"radial-gradient(circle at 50% 54%,{f} 0 3.6px,{b} 4.1px) left/50% 100% no-repeat,"
              f"radial-gradient(circle at 50% 54%,{b} 0 2.4px,{f} 2.9px 3.6px,{b} 4.1px)",
+        # round badge ends (powerline \ue0b6 \ue0b4, the pickup board): not in the web fonts
+        # 둥근 배지 끝 (powerline \ue0b6 \ue0b4, 호출판): 웹 글꼴에 없다
+        "\ue0b6": f"radial-gradient(100% 50% at 100% 50%,{f} 96%,{b} 100%)",
+        "\ue0b4": f"radial-gradient(100% 50% at 0 50%,{f} 96%,{b} 100%)",
     }
     if ch in BOX:
         # corners and tees from half lines, so they meet │ and ─ exactly / 반쪽 선으로 모서리와 갈림을 그려 │ ─ 와 정확히 이어지게

diff --git a/README.md b/README.md
@@ -16,8 +16,10 @@ reboot the Mac and everything comes back, with each Claude resumed in its pane.
 
 ## Features
 
-- **One board for every session.** Cards grouped by project, with live state and
-  elapsed time. Running cards glow, waiting cards pulse amber.
+- **One board for every session.** A box per project in its own color, with a
+  card per Claude showing live state and elapsed time. Running cards glow,
+  waiting cards pulse amber, and the one you are in has a white line on each
+  side. Widen the sidebar for 2 or 3 columns; a long list scrolls with the wheel.
 - **Notifications.** A macOS notification when a task needs input or finishes,
   except the one you are looking at. Turn it off in Settings.
 - **Jump anywhere.** `Option+1..9`, `Option+0` (oldest waiting), or click a card.
@@ -120,7 +122,8 @@ new hooks once restarted. `hivemux version` shows the installed version; see
 | `prefix Shift+R` | Remote Control server window (start new sessions from the phone) |
 | `prefix b` | hide / show sidebars |
 | `prefix s` / `prefix Shift+S` | session list / full tree |
-| drag the sidebar grip | resize; width is saved |
+| drag the sidebar grip | resize; width is saved. Wider: project boxes in 2–3 columns |
+| mouse wheel on the sidebar | scroll when the list does not fit (shared by every window) |
 
 `prefix` is `Ctrl+A` with the recommended keys, otherwise tmux's `Ctrl+B`.
 
